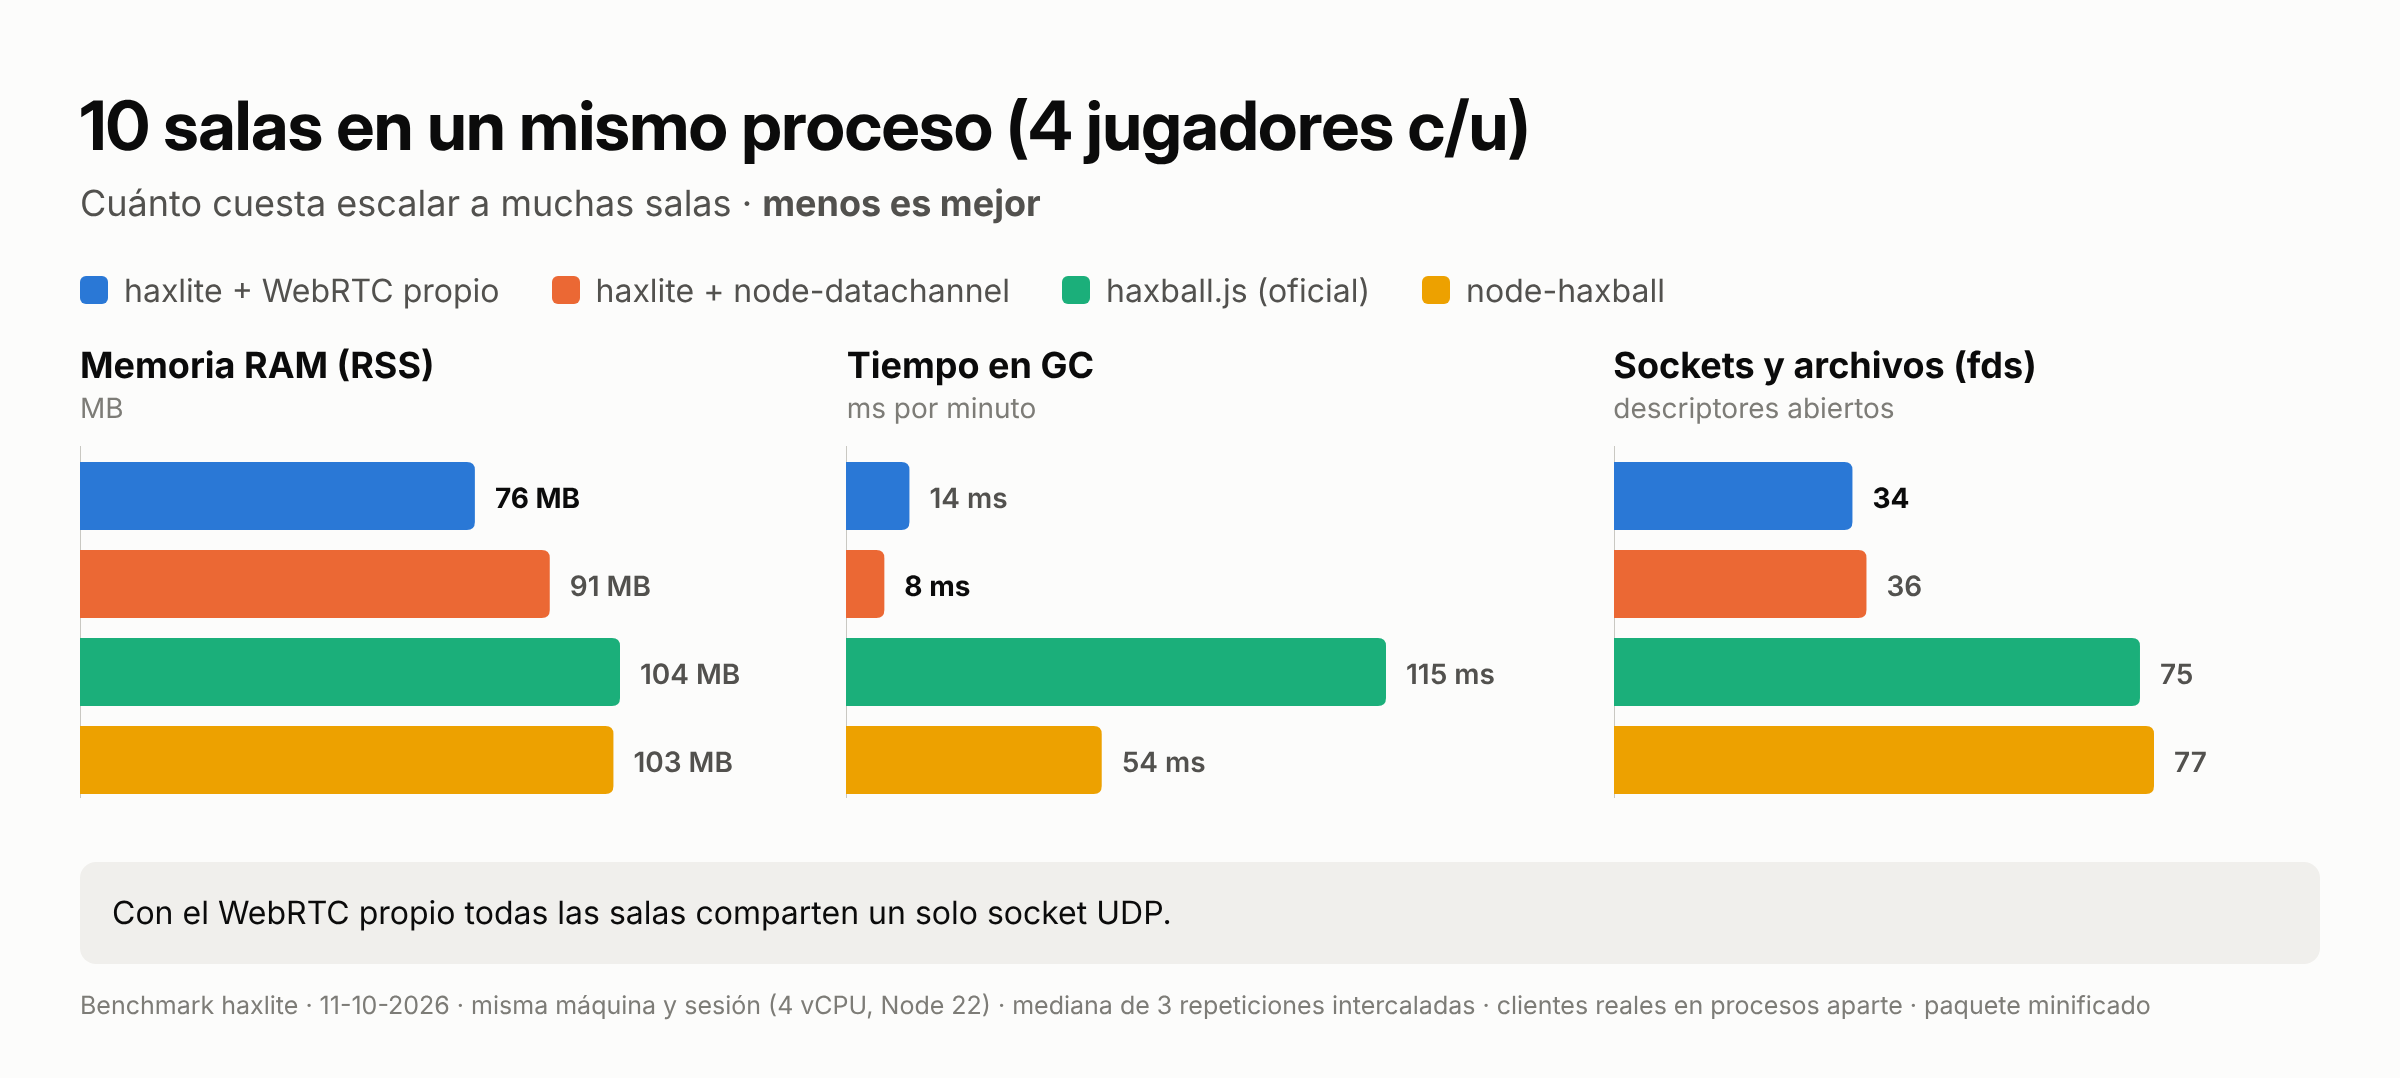
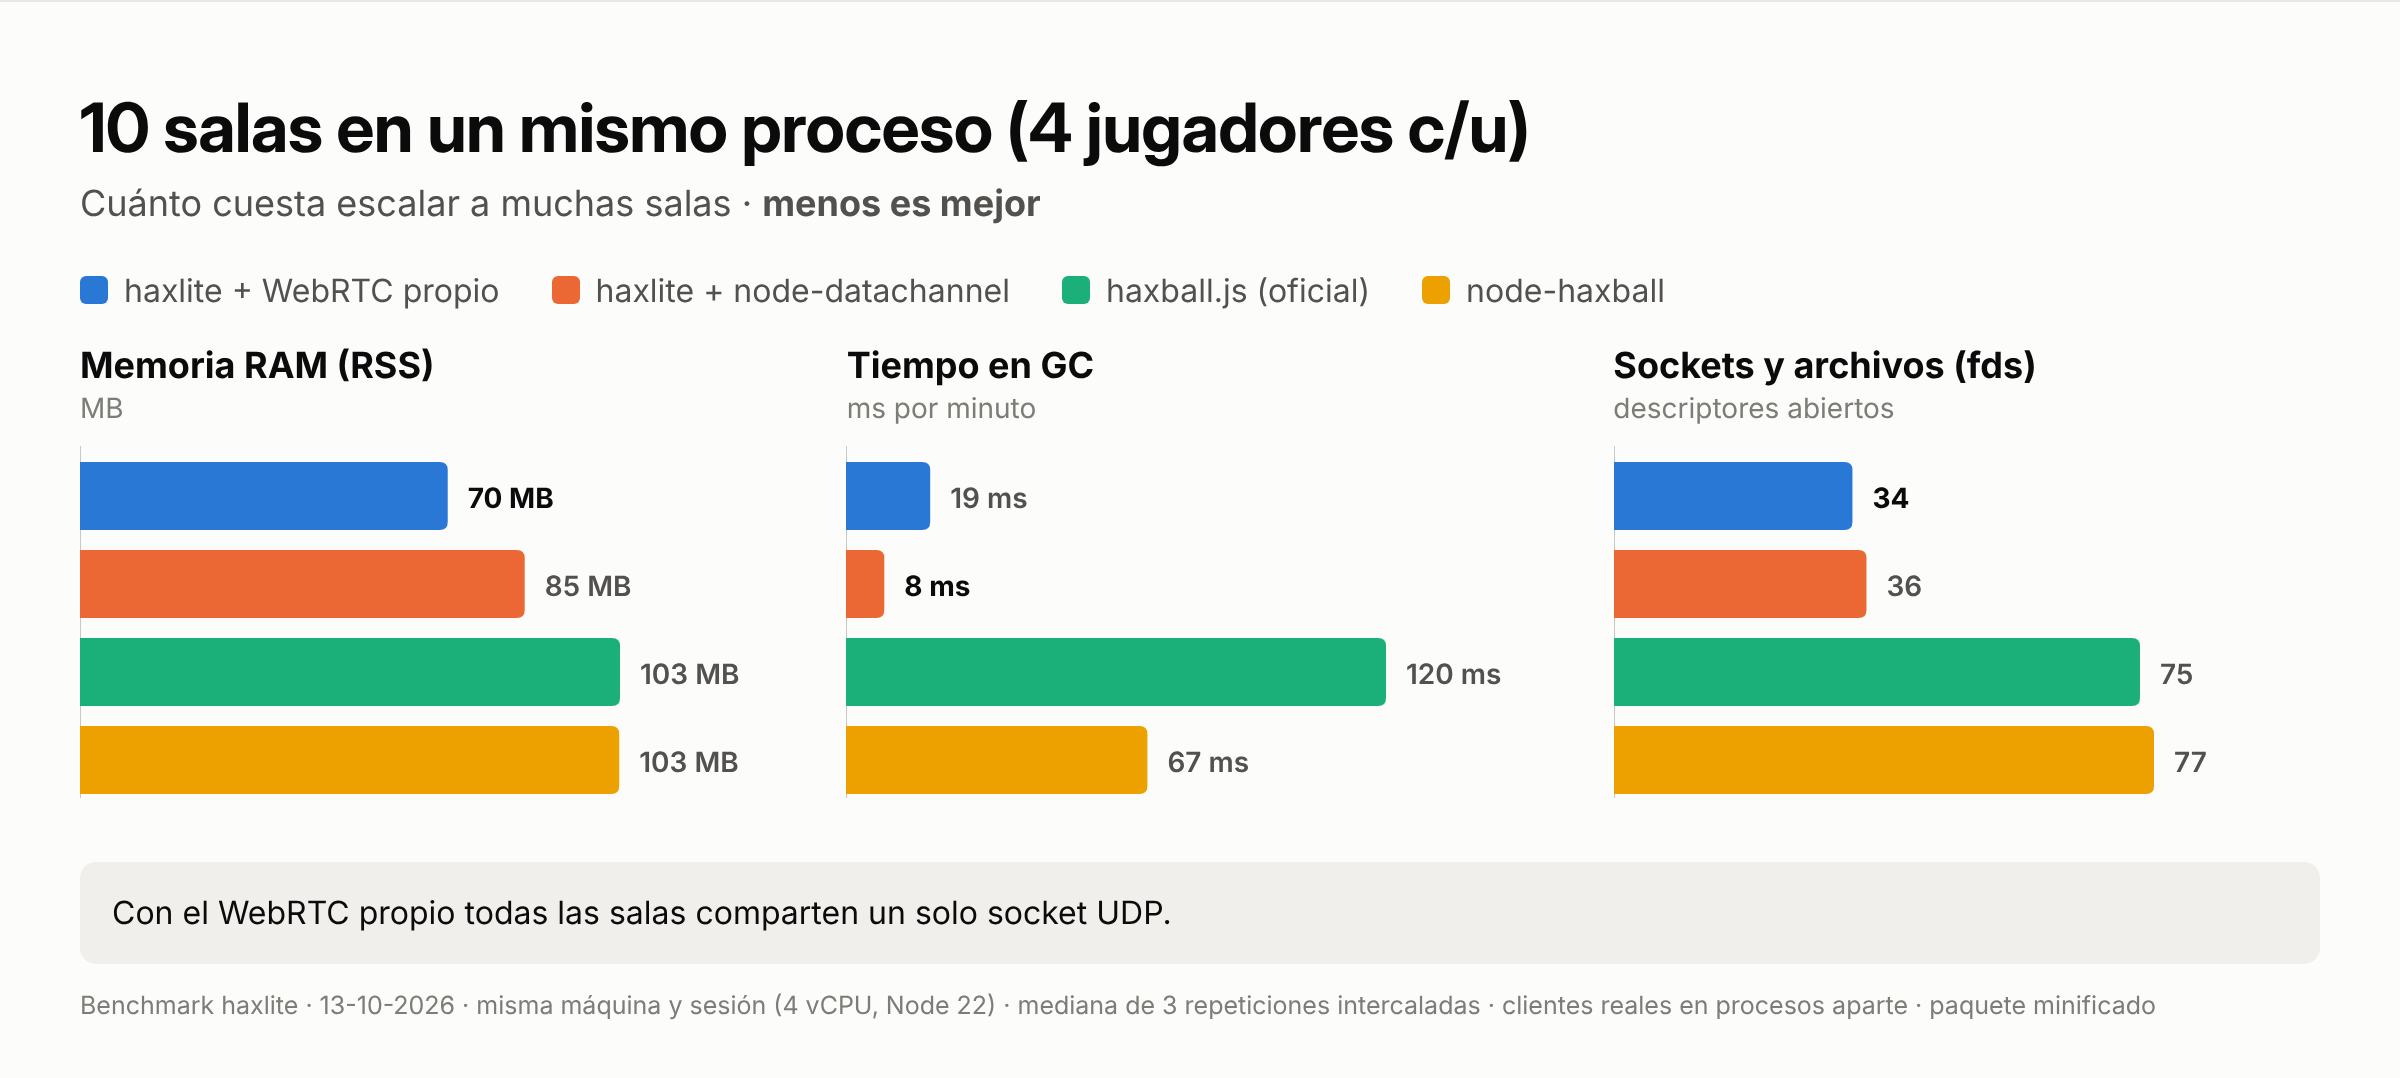
docs(bench): resultado actual de la tanda unificada del 13-10-2026 + gráficas regeneradas
charts.mjs toma la fecha del JSON y calcula las notas a partir de los datos;
la tabla de WebRTC refleja el ICE completo de haxlite-rtc.

Claude-Session: https://claude.ai/code/session_01RCL1unTPm6xNYbTwaGWEFB

diff --git a/docs/benchmark-hosts.md b/docs/benchmark-hosts.md
@@ -1,8 +1,43 @@
 # Benchmark: hosts de HaxBall en Node.js
 
-## Resultado actual (benchmark rápido, tras la pasada de GC y memoria)
+## Resultado actual (tanda unificada del 13-10-2026, tras la pasada «puntero en todo»)
 
-Misma sesión, las 4 opciones intercaladas, 3 repeticiones, ventanas de 30 s (sala vacía: 60 s), arranque con 10 repeticiones; haxlite medido con el **paquete minificado** publicado. Mediana [mín–máx]. Datos: `bench/results/quick-*.json` · `sh bench/net/quick.sh` · imágenes en `docs/img/benchmark/`.
+Misma sesión, las cuatro opciones **intercaladas** en cada repetición, 3 repeticiones de 60 s tras 15 s de calentamiento (sala vacía: 3 × 120 s; arranque: 10 repeticiones), haxlite medido con el **paquete minificado** publicado (commit `de3f879`). Mediana [mín–máx]. Máquina: 4 vCPU Xeon a **2,10 GHz** (más lenta que la de las tandas anteriores: los valores absolutos de CPU suben para todos; comparar solo dentro de esta tabla). Datos: `bench/results/unified-*.json` · `sh bench/net/unified.sh` · `node bench/net/report.mjs --unified` · imágenes en `docs/img/benchmark/` (`node bench/charts.mjs docs/img/benchmark bench/results/unified`).
+
+| métrica | haxball.js (oficial) | node-haxball | haxlite + ndc | **haxlite + rtc** |
+|---|---:|---:|---:|---:|
+| **20 jugadores** · CPU % | 16,88 [16,67–17,13] | 18,35 [18,28–18,50] | 14,96 [14,76–16,15] | **7,12** [6,97–7,15] |
+| RSS MB · heap MB | 91,4 · 12,5 | 92,5 · 16,1 | 77,6 · **8,9** | **67,0** · 10,6 |
+| GC ms/min · pausas/min | 55,6 · 97 | 53,8 · 98 | **3,4 · 8** | 15,8 · 42 |
+| lag p99 ms | 1,14 | 1,22 | 1,21 | **1,13** |
+| hilos · fds · despertares/s | 18 · 46 · 4 199 | 15 · 48 · 4 260 | 19 · 27 · 4 060 | **11 · 25 · 481** |
+| entrada p50 ms (Room.join → onOpen) | 2 059 | 2 141 | **1 062** | **1 063** |
+| **10 jugadores** · CPU % | 7,68 | 8,70 | 7,01 | **3,80** |
+| **4 jugadores** · CPU % | 3,98 | 4,55 | 3,71 | **2,39** |
+| **10 salas × 4** · CPU % | 26,11 | 25,46 | 19,97 | **8,67** |
+| RSS MB · heap MB | 103,4 · 17,8 | 103,2 · 18,5 | 85,1 · **10,0** | **70,4** · 12,0 |
+| GC ms/min · fds | 119,5 · 75 | 66,7 · 77 | **8,5** · 36 | 18,6 · **34** |
+| **Sala vacía** · CPU % | 0,387 | 0,766 | **0,011** | **0,012** |
+| despertares/s · RSS MB | 20,6 · 69,0 | 81,3 · 71,1 | **0,3 · 57,5** | **0,3** · 58,9 |
+| **Arranque** proceso → link ms | 196 | 204 | **112** | **112** |
+| RSS al link MB | 77,9 | 73,7 | **59,1** | **59,1** |
+
+**Lectura:**
+
+* **haxlite (cualquiera de los dos backends) gana a haxball.js y a node-haxball en todas las métricas** de la tabla. La única fila donde no hay un ganador claro es el lag p99 (1,13–1,22 ms en los cuatro, rangos solapados: ruido, y 15 veces por debajo de un frame de 16,7 ms); con 4 clientes rtc queda 0,04 ms por encima (1,03 frente a 0,98–0,99), también dentro del ruido.
+* **haxlite + rtc** es el más barato con jugadores: −58 % de CPU frente al oficial y −61 % frente a node-haxball con 20 jugadores; −67 % y −66 % con 10 salas. 0 hilos nativos, ~9× menos despertares.
+* **Entrada a la sala en la mitad de tiempo** con los dos backends (≈ 1,06 s frente a ≈ 2,06 s): el host es servidor DTLS y la answer sale con el primer candidato (docs/07, «Pasada `ndc`»). El segundo restante es del propio cliente.
+* **Arranque ~85 ms antes y ~15–19 MB menos de RSS** que los otros dos (carga de `ws` sin el lexer CJS, menos módulos internos de Node, bundle ASCII).
+* Entre los dos backends de haxlite: `ndc` sigue con menos GC y heap (su red vive en código nativo, fuera del heap); `rtc` gana en todo lo demás. El GC que queda en rtc lo crea el binding UDP de Node por cada datagrama recibido (≈ 0,44 MB/s con 20 jugadores) y no se puede quitar desde JS (docs/10 §6.6).
+* **rtc ya funciona detrás de NAT** (ICE completo con STUN y comprobaciones propias; docs/10 §2.1, §4.4). Sin TURN.
+
+Cambios de esta pasada (frente a la tabla rápida anterior, que sigue abajo como histórico): ICE completo en rtc; E/S UDP sin basura por envío (`src/rtc/udp.ts`) y temporizadores SCTP sin `Timeout` nuevos; entrada −1 s en ndc; arranque −37 ms y −9 MB; certificado DTLS síncrono (sin hilos del thread pool en una sala vacía, medido después de esta tabla: 11 → 7 hilos en reposo); arreglos de seguridad y robustez (bans por `auth` canónico, fuga de direcciones validadas en rtc, negociaciones colgadas, candidatos remotos acotados, vida del WebSocket del maestro, aviso de kick antes del cierre).
+
+---
+
+## Resultado rápido anterior (11-10-2026, tras la pasada de GC; histórico)
+
+Misma sesión, las 4 opciones intercaladas, 3 repeticiones, ventanas de 30 s (sala vacía: 60 s), arranque con 10 repeticiones; haxlite medido con el **paquete minificado** publicado. Mediana [mín–máx]. Datos: `bench/results/quick-*.json` · `sh bench/net/quick.sh`. Las imágenes de `docs/img/benchmark/` ya corresponden a la tanda unificada de arriba.
 
 | métrica | haxball.js (oficial) | node-haxball | haxlite + ndc | **haxlite + rtc** |
 |---|---:|---:|---:|---:|
